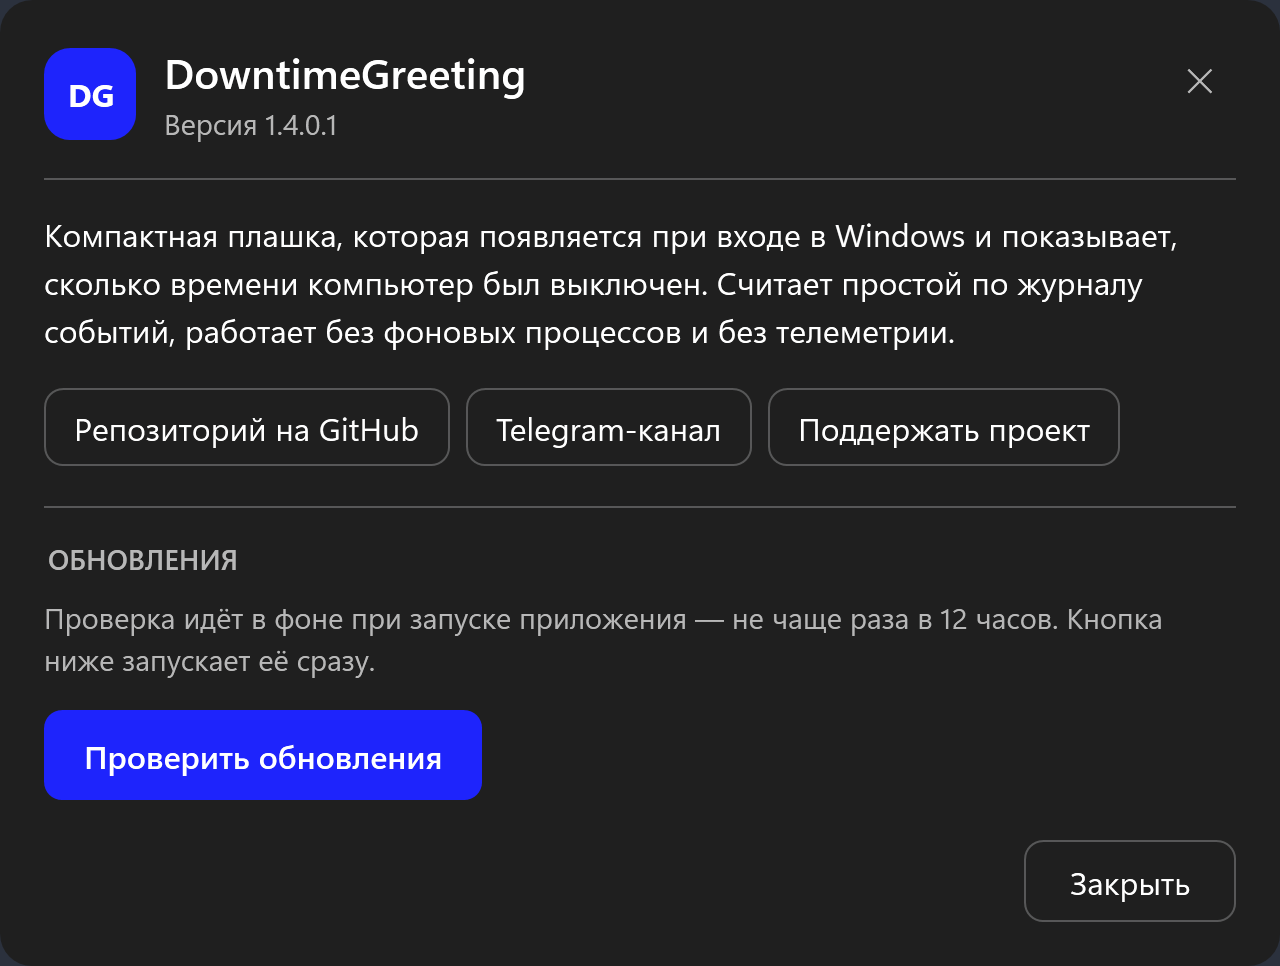
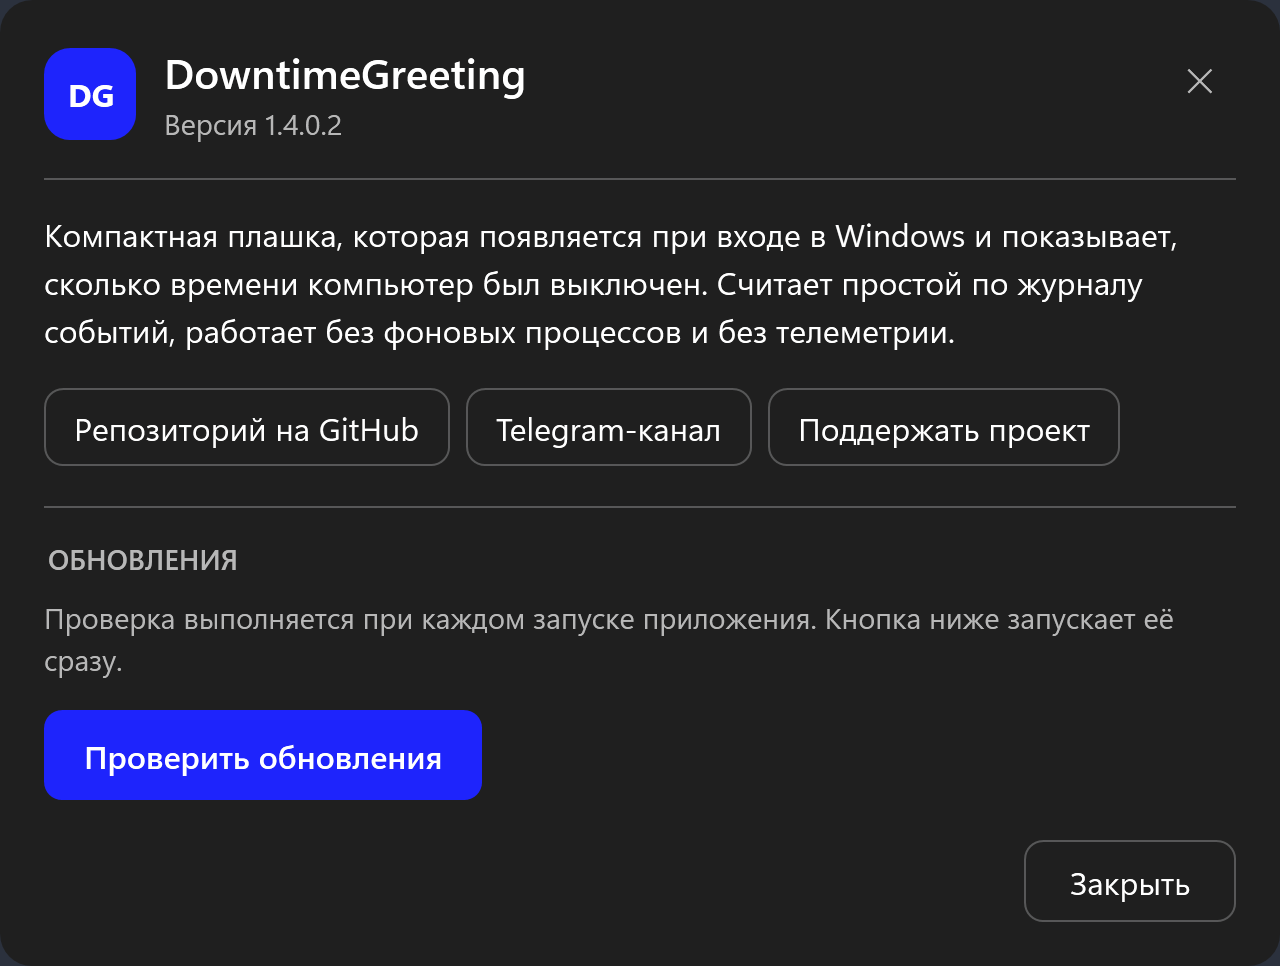
Check updates on every launch, accent progress bar, larger phrase font, 1.4.0.2

Changed region(s): [[0.1562, 0.6211, 0.9375, 0.6522], [0.0312, 0.6832, 0.2812, 0.7143]]

diff --git a/Styles/Theme.xaml b/Styles/Theme.xaml
@@ -283,6 +283,40 @@
         <Setter Property="Padding" Value="8,6" />
     </Style>
 
+    <!-- ============================ Индикатор прогресса ============================ -->
+
+    <!-- Без своего шаблона WPF рисует стандартную зелёную полоску, которая выбивается
+         из палитры приложения: заливка должна быть акцентной, дорожка — фоновой. -->
+    <Style x:Key="AppProgressBarStyle" TargetType="ProgressBar">
+        <Setter Property="Background" Value="{DynamicResource InputBackgroundBrush}" />
+        <Setter Property="Foreground" Value="{DynamicResource AccentBrush}" />
+        <Setter Property="BorderThickness" Value="0" />
+        <Setter Property="Height" Value="6" />
+        <Setter Property="Template">
+            <Setter.Value>
+                <ControlTemplate TargetType="ProgressBar">
+                    <Grid>
+                        <Border x:Name="Track"
+                                Background="{TemplateBinding Background}"
+                                CornerRadius="3" />
+
+                        <Border x:Name="PART_Track" />
+
+                        <Border x:Name="PART_Indicator"
+                                HorizontalAlignment="Left"
+                                Background="{TemplateBinding Foreground}"
+                                CornerRadius="3" />
+                    </Grid>
+                    <ControlTemplate.Triggers>
+                        <Trigger Property="IsIndeterminate" Value="True">
+                            <Setter TargetName="PART_Indicator" Property="Opacity" Value="0.6" />
+                        </Trigger>
+                    </ControlTemplate.Triggers>
+                </ControlTemplate>
+            </Setter.Value>
+        </Setter>
+    </Style>
+
     <!-- ============================ Ползунок ============================ -->
 
     <Style x:Key="AppSliderStyle" TargetType="Slider">

diff --git a/MainWindow.xaml b/MainWindow.xaml
@@ -282,13 +282,13 @@
                                            Style="{StaticResource FieldLabelTextStyle}"
                                            Margin="0,14,0,6" />
                                 <TextBox x:Name="PhrasesTextBox"
-                                         Height="132"
+                                         Height="148"
                                          AcceptsReturn="True"
                                          TextWrapping="NoWrap"
                                          VerticalContentAlignment="Top"
                                          ScrollViewer.VerticalScrollBarVisibility="Auto"
                                          ScrollViewer.HorizontalScrollBarVisibility="Disabled"
-                                         FontSize="14"
+                                         FontSize="16"
                                          Style="{StaticResource AppTextBoxStyle}" />
 
                                 <StackPanel Margin="0,14,0,0">

diff --git a/Localization/Strings.ru.xaml b/Localization/Strings.ru.xaml
@@ -81,7 +81,7 @@
 
     <!-- Обновления -->
     <sys:String x:Key="L_UpdTitle">ОБНОВЛЕНИЯ</sys:String>
-    <sys:String x:Key="L_UpdIdle">Проверка идёт в фоне при запуске приложения — не чаще раза в 12 часов. Кнопка ниже запускает её сразу.</sys:String>
+    <sys:String x:Key="L_UpdIdle">Проверка выполняется при каждом запуске приложения. Кнопка ниже запускает её сразу.</sys:String>
     <sys:String x:Key="L_UpdCheck">Проверить обновления</sys:String>
     <sys:String x:Key="L_UpdChecking">Проверяем…</sys:String>
     <sys:String x:Key="L_UpdUpToDateFormat">Установлена последняя версия {0}.</sys:String>

diff --git a/Localization/Strings.en.xaml b/Localization/Strings.en.xaml
@@ -81,7 +81,7 @@
 
     <!-- Updates -->
     <sys:String x:Key="L_UpdTitle">UPDATES</sys:String>
-    <sys:String x:Key="L_UpdIdle">Checks run in the background on startup, at most once every 12 hours. The button below runs one right now.</sys:String>
+    <sys:String x:Key="L_UpdIdle">Checks run on every app start. The button below runs one right now.</sys:String>
     <sys:String x:Key="L_UpdCheck">Check for updates</sys:String>
     <sys:String x:Key="L_UpdChecking">Checking…</sys:String>
     <sys:String x:Key="L_UpdUpToDateFormat">You have the latest version {0}.</sys:String>

diff --git a/UpdateWindow.xaml b/UpdateWindow.xaml
@@ -119,6 +119,7 @@
                                  Maximum="100"
                                  Height="6"
                                  Margin="0,10,0,0"
+                                 Style="{StaticResource AppProgressBarStyle}"
                                  Visibility="Collapsed" />
 
                     <Grid Margin="0,18,0,0">

diff --git a/Updates/UpdateService.cs b/Updates/UpdateService.cs
@@ -169,48 +169,6 @@ public static class UpdateService
     }
 
     /// <summary>
-    /// Загружает сохранённое время последней проверки, чтобы не обращаться к сети при каждом запуске.
-    /// </summary>
-    public static void LoadState()
-    {
-        try
-        {
-            string path = AppPaths.GetUpdateStatePath();
-            if (!File.Exists(path))
-            {
-                return;
-            }
-
-            UpdateState? state = JsonSerializer.Deserialize<UpdateState>(File.ReadAllText(path));
-            if (state?.LastCheckUtc is { } saved && saved <= DateTimeOffset.UtcNow.AddDays(1))
-            {
-                LastCheckUtc = saved;
-            }
-        }
-        catch (Exception ex) when (ex is IOException or UnauthorizedAccessException or JsonException)
-        {
-            Log.Warning(ex, "Не удалось прочитать состояние проверки обновлений");
-        }
-    }
-
-    /// <summary>
-    /// Проверяет, пора ли выполнять очередную проверку.
-    /// </summary>
-    /// <param name="normalInterval">Интервал между успешными проверками.</param>
-    /// <param name="retryAfterFailure">Интервал повторной попытки после ошибки.</param>
-    /// <returns><see langword="true"/>, если проверку нужно выполнить.</returns>
-    public static bool IsCheckDue(TimeSpan normalInterval, TimeSpan retryAfterFailure)
-    {
-        if (LastCheckUtc is not { } checkedAt)
-        {
-            return true;
-        }
-
-        TimeSpan interval = LastResult?.Status == UpdateStatus.Failed ? retryAfterFailure : normalInterval;
-        return DateTimeOffset.UtcNow - checkedAt >= interval;
-    }
-
-    /// <summary>
     /// Проверяет наличие новой версии на GitHub.
     /// </summary>
     /// <param name="cancellationToken">Токен отмены.</param>
@@ -224,7 +182,6 @@ public static class UpdateService
 
             LastResult = result;
             LastCheckUtc = DateTimeOffset.UtcNow;
-            SaveState(LastCheckUtc.Value);
 
             Log.Information("Обновления: {State}", Describe(result));
             Checked?.Invoke(null, result);
@@ -923,20 +880,6 @@ public static class UpdateService
         return client;
     }
 
-    private static void SaveState(DateTimeOffset checkedAt)
-    {
-        try
-        {
-            Directory.CreateDirectory(AppPaths.GetApplicationDirectory());
-            string json = JsonSerializer.Serialize(new UpdateState { LastCheckUtc = checkedAt });
-            File.WriteAllText(AppPaths.GetUpdateStatePath(), json, new UTF8Encoding(false));
-        }
-        catch (Exception ex) when (ex is IOException or UnauthorizedAccessException)
-        {
-            Log.Warning(ex, "Не удалось сохранить состояние проверки обновлений");
-        }
-    }
-
     /// <summary>
     /// Скрипт подмены exe: ждёт выхода приложения, заменяет файл, проверяет результат,
     /// запускает приложение снова и пишет каждый шаг в отчёт. Чистый ASCII.
@@ -1020,11 +963,4 @@ public static class UpdateService
         "ping -n 2 127.0.0.1 >nul 2>nul",
         "exit /b 0"
     ];
-
-    /// <summary>Состояние проверки обновлений, сохраняемое между запусками.</summary>
-    private sealed class UpdateState
-    {
-        /// <summary>Момент последней проверки (UTC).</summary>
-        public DateTimeOffset? LastCheckUtc { get; set; }
-    }
 }

diff --git a/App.xaml.cs b/App.xaml.cs
@@ -50,12 +50,6 @@ public partial class App : Application
     /// <summary>Имя события «активировать главное окно» для передачи запроса первому экземпляру.</summary>
     private const string ActivateWindowEventName = @"Local\DowntimeGreeting.ActivateWindow";
 
-    /// <summary>Интервал между обычными проверками обновлений при запуске.</summary>
-    private static readonly TimeSpan NormalCheckInterval = TimeSpan.FromHours(12);
-
-    /// <summary>Интервал повторной попытки после неудачной проверки обновлений.</summary>
-    private static readonly TimeSpan RetryAfterFailureInterval = TimeSpan.FromMinutes(30);
-
     private Mutex? _instanceMutex;
     private EventWaitHandle? _showGreetingEvent;
     private EventWaitHandle? _activateWindowEvent;
@@ -177,25 +171,18 @@ public partial class App : Application
     }
 
     /// <summary>
-    /// Проверяет обновления при запуске, соблюдая интервал между запросами.
+    /// Проверяет обновления при каждом запуске приложения.
     /// </summary>
     /// <remarks>
-    /// Время последней проверки сохраняется в профиле пользователя, поэтому частые запуски
-    /// не создают лишних обращений к GitHub. Ошибки сети не показываются: они попадают в журнал.
+    /// Проверка выполняется при каждом старте: пользователь должен узнавать о новой версии
+    /// сразу, а не через сутки. Ошибки сети не показываются — они попадают в журнал,
+    /// а работа приложения от них не зависит.
     /// </remarks>
     /// <returns>Задача, представляющая асинхронную операцию.</returns>
     private async Task RunStartupUpdateCheckAsync()
     {
         try
         {
-            UpdateService.LoadState();
-
-            if (!UpdateService.IsCheckDue(NormalCheckInterval, RetryAfterFailureInterval))
-            {
-                Log.Debug("Проверка обновлений не требуется: недавно выполнялась");
-                return;
-            }
-
             // Небольшая задержка, чтобы окно успело отрисоваться до сетевого запроса.
             await Task.Delay(TimeSpan.FromSeconds(3), _updateCancellation.Token).ConfigureAwait(true);
 

diff --git a/Common/AppPaths.cs b/Common/AppPaths.cs
@@ -18,9 +18,6 @@ public static class AppPaths
     /// <summary>Имя файла настроек.</summary>
     public const string SettingsFileName = "appsettings.json";
 
-    /// <summary>Имя файла с состоянием проверки обновлений.</summary>
-    public const string UpdateStateFileName = "update-state.json";
-
     /// <summary>Имя скрипта, который подменяет exe после выхода приложения.</summary>
     public const string ApplyScriptFileName = "apply-update.cmd";
 
@@ -46,12 +43,6 @@ public static class AppPaths
     /// </summary>
     /// <returns>Путь вида <c>...\DowntimeGreeting\appsettings.json</c>.</returns>
     public static string GetSettingsPath() => Path.Combine(GetApplicationDirectory(), SettingsFileName);
-
-    /// <summary>
-    /// Возвращает путь к файлу состояния проверки обновлений.
-    /// </summary>
-    /// <returns>Путь вида <c>...\DowntimeGreeting\update-state.json</c>.</returns>
-    public static string GetUpdateStatePath() => Path.Combine(GetApplicationDirectory(), UpdateStateFileName);
 
     /// <summary>
     /// Возвращает путь к скрипту подмены исполняемого файла.
